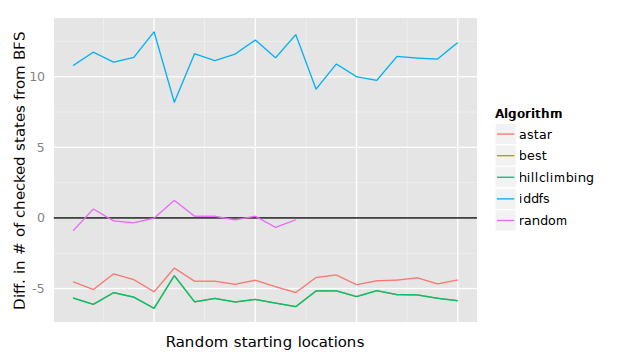
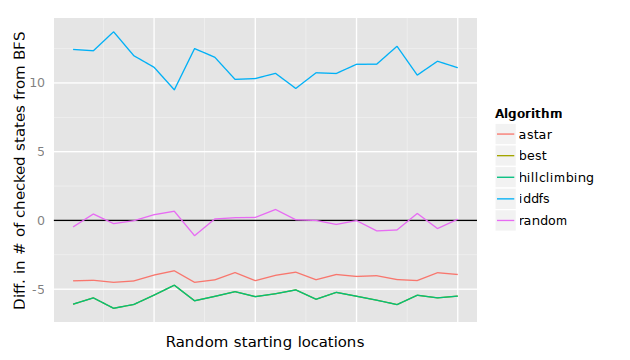
Added "anomaly" version of routing to Goodale.

diff --git a/search-practice.html b/search-practice.html
@@ -7,7 +7,7 @@
 <meta http-equiv="Content-Type" content="text/html;charset=utf-8"/>
 <meta name="title" content="Practice with searching"/>
 <meta name="generator" content="Org-mode"/>
-<meta name="generated" content="2012-04-05 22:16:07 EDT"/>
+<meta name="generated" content="2012-04-06 08:18:00 EDT"/>
 <meta name="author" content="Joshua Eckroth"/>
 <meta name="description" content=""/>
 <meta name="keywords" content=""/>
@@ -83,7 +83,47 @@
  }
 /*]]>*///-->
 </script>
+<script type="text/javascript" src="http://orgmode.org/mathjax/MathJax.js">
+<!--/*--><![CDATA[/*><!--*/
+    MathJax.Hub.Config({
+        // Only one of the two following lines, depending on user settings
+        // First allows browser-native MathML display, second forces HTML/CSS
+        //  config: ["MMLorHTML.js"], jax: ["input/TeX"],
+            jax: ["input/TeX", "output/HTML-CSS"],
+        extensions: ["tex2jax.js","TeX/AMSmath.js","TeX/AMSsymbols.js",
+                     "TeX/noUndefined.js"],
+        tex2jax: {
+            inlineMath: [ ["\\(","\\)"] ],
+            displayMath: [ ['$$','$$'], ["\\[","\\]"], ["\\begin{displaymath}","\\end{displaymath}"] ],
+            skipTags: ["script","noscript","style","textarea","pre","code"],
+            ignoreClass: "tex2jax_ignore",
+            processEscapes: false,
+            processEnvironments: true,
+            preview: "TeX"
+        },
+        showProcessingMessages: true,
+        displayAlign: "center",
+        displayIndent: "2em",
 
+        "HTML-CSS": {
+             scale: 100,
+             availableFonts: ["STIX","TeX"],
+             preferredFont: "TeX",
+             webFont: "TeX",
+             imageFont: "TeX",
+             showMathMenu: true,
+        },
+        MMLorHTML: {
+             prefer: {
+                 MSIE:    "MML",
+                 Firefox: "MML",
+                 Opera:   "HTML",
+                 other:   "HTML"
+             }
+        }
+    });
+/*]]>*///-->
+</script>
 </head>
 <body>
 
@@ -123,8 +163,12 @@
 <li><a href="#sec-2">Comparison of searches</a>
 <ul>
 <li><a href="#sec-2-1">Number of checked states (time)</a></li>
-<li><a href="#sec-2-2">Length of path (goodness of solutions)</a></li>
-<li><a href="#sec-2-3">Maximum number of states in memory</a></li>
+<li><a href="#sec-2-2">Maximum number of states in memory</a></li>
+<li><a href="#sec-2-3">Length of path (goodness of solutions)</a>
+<ul>
+<li><a href="#sec-2-3-1">Let&rsquo;s introduce an anomaly</a></li>
+</ul>
+</li>
 </ul>
 </li>
 </ul>
@@ -338,8 +382,23 @@ a measure of miles between them:
 </div>
 
 <div id="outline-container-2-2" class="outline-3">
-<h3 id="sec-2-2">Length of path (goodness of solutions)</h3>
+<h3 id="sec-2-2">Maximum number of states in memory</h3>
 <div class="outline-text-3" id="text-2-2">
+
+
+
+<div style="text-align: center">
+<p><img src="./images/goodale-memory.png"  alt="./images/goodale-memory.png" />
+</p>
+</div>
+
+</div>
+
+</div>
+
+<div id="outline-container-2-3" class="outline-3">
+<h3 id="sec-2-3">Length of path (goodness of solutions)</h3>
+<div class="outline-text-3" id="text-2-3">
 
 
 
@@ -351,16 +410,31 @@ a measure of miles between them:
 
 </div>
 
-</div>
-
-<div id="outline-container-2-3" class="outline-3">
-<h3 id="sec-2-3">Maximum number of states in memory</h3>
-<div class="outline-text-3" id="text-2-3">
+<div id="outline-container-2-3-1" class="outline-4">
+<h4 id="sec-2-3-1">Let&rsquo;s introduce an anomaly</h4>
+<div class="outline-text-4" id="text-2-3-1">
 
 
+<p>
+Suppose we change the distance from High &amp; 15th to High &amp; 11th to 37
+miles (originally was 0.37 miles). This modification is a proxy for a
+traffic jam between these two intersections or some other similar
+unplanned situation. A* will account for this change because its
+heuristic is the composite heuristic \(f(s) = g(s) + h(s)\), which means
+that \(f\) accounts for both the estimated distance \(h\) between High &amp;
+15th and High &amp; 11th (&ldquo;as the crow flies&rdquo;), and the cost \(g\) of
+traveling that distance (the traffic jam is accounted for here).
+</p>
+<p>
+Best-first search, on the other hand (and hill-climbing for that
+matter) do not take into account \(g\), so they do not plan for the
+traffic jam; they only plan for the &ldquo;as the crow flies&rdquo;
+distance. Thus, best-first and hill-climbing will travel across this
+jammed route and their solution cost will suffer as a result.
+</p>
 
 <div style="text-align: center">
-<p><img src="./images/goodale-memory.png"  alt="./images/goodale-memory.png" />
+<p><img src="./images/goodale-anomaly-path.png"  alt="./images/goodale-anomaly-path.png" />
 </p>
 </div>
 
@@ -372,6 +446,7 @@ a measure of miles between them:
 </div>
 
 
+</div>
 </div>
 </div>
 </div>

diff --git a/informed-search.html b/informed-search.html
@@ -7,7 +7,7 @@
 <meta http-equiv="Content-Type" content="text/html;charset=iso-8859-1"/>
 <meta name="title" content="Informed search"/>
 <meta name="generator" content="Org-mode"/>
-<meta name="generated" content="2012-04-05 22:16:10 EDT"/>
+<meta name="generated" content="2012-04-06 08:18:02 EDT"/>
 <meta name="author" content="Joshua Eckroth"/>
 <meta name="description" content=""/>
 <meta name="keywords" content=""/>
@@ -161,8 +161,8 @@
 <li><a href="#sec-7">Comparisons</a>
 <ul>
 <li><a href="#sec-7-1">Number of checked states (time)</a></li>
-<li><a href="#sec-7-2">Length of path (goodness of solutions)</a></li>
-<li><a href="#sec-7-3">Maximum number of states in memory</a></li>
+<li><a href="#sec-7-2">Maximum number of states in memory</a></li>
+<li><a href="#sec-7-3">Length of path (goodness of solutions)</a></li>
 </ul>
 </li>
 </ul>
@@ -472,8 +472,35 @@ efficient.&rdquo;
 </div>
 
 <div id="outline-container-7-2" class="outline-3">
-<h3 id="sec-7-2">Length of path (goodness of solutions)</h3>
+<h3 id="sec-7-2">Maximum number of states in memory</h3>
 <div class="outline-text-3" id="text-7-2">
+
+
+
+<div style="text-align: center">
+<p><img src="./images/search-memory.png"  alt="./images/search-memory.png" />
+</p>
+</div>
+
+<p>
+&ldquo;Memory&rdquo; is measured as the maximum size ever encountered of the
+&ldquo;tocheck&rdquo; list. Hill-climbing search keeps the &ldquo;tocheck&rdquo; list the
+smallest, overall, because it always deletes the list and creates a
+new list with only the next accessible states.
+</p>
+<p>
+BFS uses a lot of memory because it keeps knowledge of all accessible
+states from every state higher up in the &ldquo;search tree.&rdquo; Other
+algorithms generally prefer keeping knowledge of states accessible
+from only the best states.
+</p>
+</div>
+
+</div>
+
+<div id="outline-container-7-3" class="outline-3">
+<h3 id="sec-7-3">Length of path (goodness of solutions)</h3>
+<div class="outline-text-3" id="text-7-3">
 
 
 
@@ -498,33 +525,6 @@ before longer solutions, and thus nearly always finds the optimal
 solution. Interestingly, random search finds near-optimal solutions,
 possibly because it is more likely it will look at a shallow node
 (there are up to four from each state) than a deep node.
-</p>
-</div>
-
-</div>
-
-<div id="outline-container-7-3" class="outline-3">
-<h3 id="sec-7-3">Maximum number of states in memory</h3>
-<div class="outline-text-3" id="text-7-3">
-
-
-
-<div style="text-align: center">
-<p><img src="./images/search-memory.png"  alt="./images/search-memory.png" />
-</p>
-</div>
-
-<p>
-&ldquo;Memory&rdquo; is measured as the maximum size ever encountered of the
-&ldquo;tocheck&rdquo; list. Hill-climbing search keeps the &ldquo;tocheck&rdquo; list the
-smallest, overall, because it always deletes the list and creates a
-new list with only the next accessible states.
-</p>
-<p>
-BFS uses a lot of memory because it keeps knowledge of all accessible
-states from every state higher up in the &ldquo;search tree.&rdquo; Other
-algorithms generally prefer keeping knowledge of states accessible
-from only the best states.
 </p>
 
 

diff --git a/reasoning-with-uncertainty.html b/reasoning-with-uncertainty.html
@@ -7,7 +7,7 @@
 <meta http-equiv="Content-Type" content="text/html;charset=iso-8859-1"/>
 <meta name="title" content="Reasoning with uncertainty"/>
 <meta name="generator" content="Org-mode"/>
-<meta name="generated" content="2012-04-05 22:16:07 EDT"/>
+<meta name="generated" content="2012-04-06 08:22:16 EDT"/>
 <meta name="author" content="Joshua Eckroth"/>
 <meta name="description" content=""/>
 <meta name="keywords" content=""/>

diff --git a/siteindex.html b/siteindex.html
@@ -7,7 +7,7 @@
 <meta http-equiv="Content-Type" content="text/html;charset=iso-8859-1"/>
 <meta name="title" content="Site index"/>
 <meta name="generator" content="Org-mode"/>
-<meta name="generated" content="2012-04-05 22:16:06 EDT"/>
+<meta name="generated" content="2012-04-06 08:22:15 EDT"/>
 <meta name="author" content="Joshua Eckroth"/>
 <meta name="description" content=""/>
 <meta name="keywords" content=""/>

diff --git a/learning.html b/learning.html
@@ -7,7 +7,7 @@
 <meta http-equiv="Content-Type" content="text/html;charset=iso-8859-1"/>
 <meta name="title" content="Learning"/>
 <meta name="generator" content="Org-mode"/>
-<meta name="generated" content="2012-04-05 22:16:09 EDT"/>
+<meta name="generated" content="2012-04-06 08:22:16 EDT"/>
 <meta name="author" content="Joshua Eckroth"/>
 <meta name="description" content=""/>
 <meta name="keywords" content=""/>

diff --git a/planning.html b/planning.html
@@ -7,7 +7,7 @@
 <meta http-equiv="Content-Type" content="text/html;charset=iso-8859-1"/>
 <meta name="title" content="Planning"/>
 <meta name="generator" content="Org-mode"/>
-<meta name="generated" content="2012-04-05 22:16:08 EDT"/>
+<meta name="generated" content="2012-04-06 08:22:16 EDT"/>
 <meta name="author" content="Joshua Eckroth"/>
 <meta name="description" content=""/>
 <meta name="keywords" content=""/>

diff --git a/theindex.html b/theindex.html
@@ -7,7 +7,7 @@
 <meta http-equiv="Content-Type" content="text/html;charset=iso-8859-1"/>
 <meta name="title" content="theindex"/>
 <meta name="generator" content="Org-mode"/>
-<meta name="generated" content="2012-04-05 22:16:26 EDT"/>
+<meta name="generated" content="2012-04-06 08:22:29 EDT"/>
 <meta name="author" content="Joshua Eckroth"/>
 <meta name="description" content=""/>
 <meta name="keywords" content=""/>
